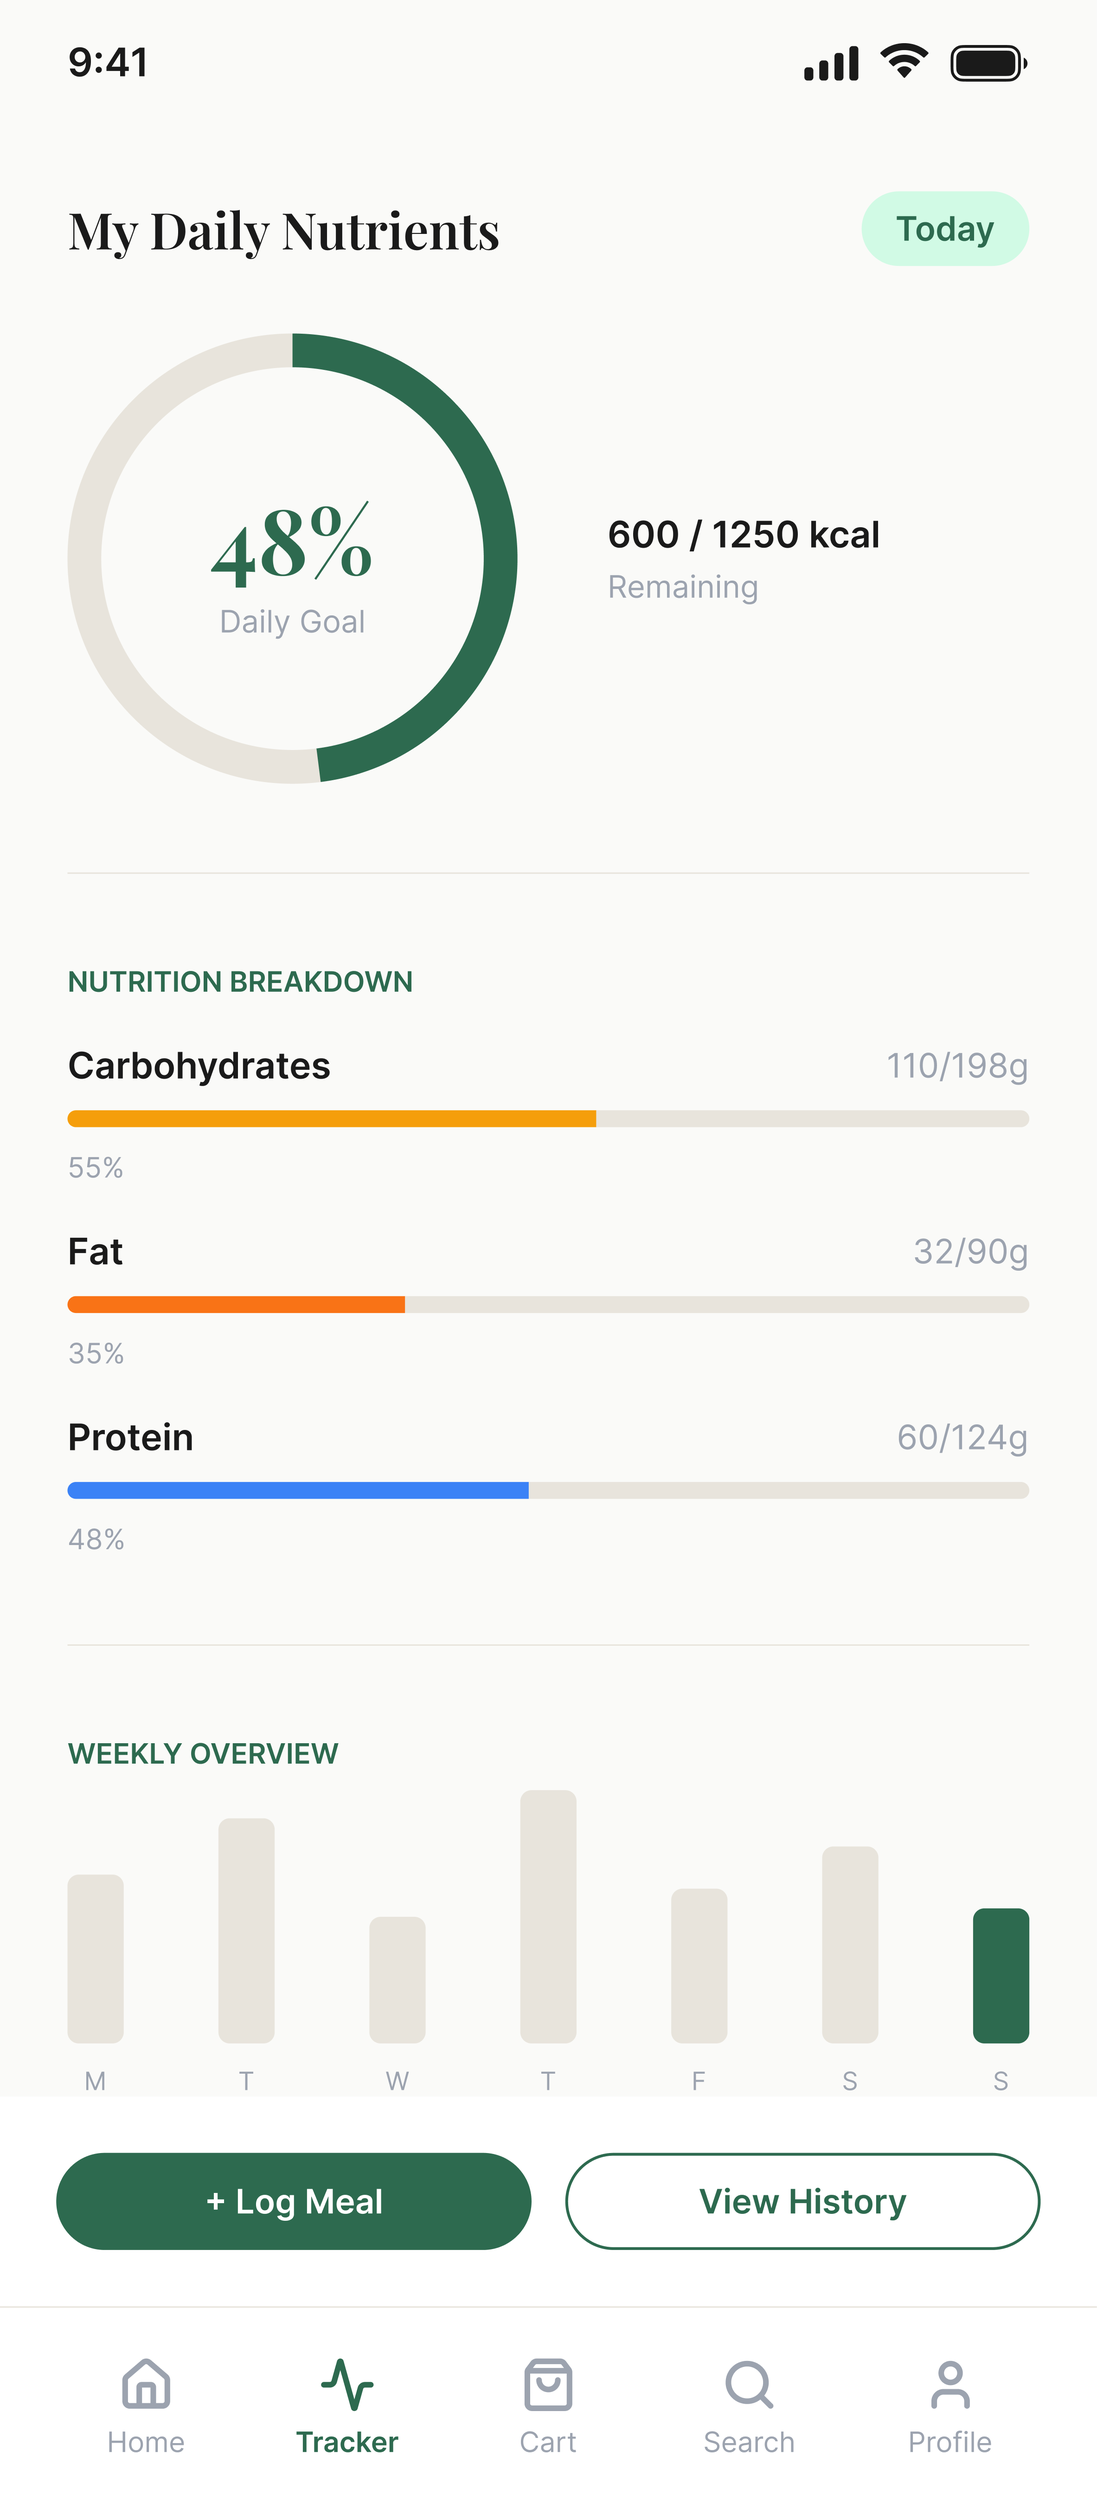
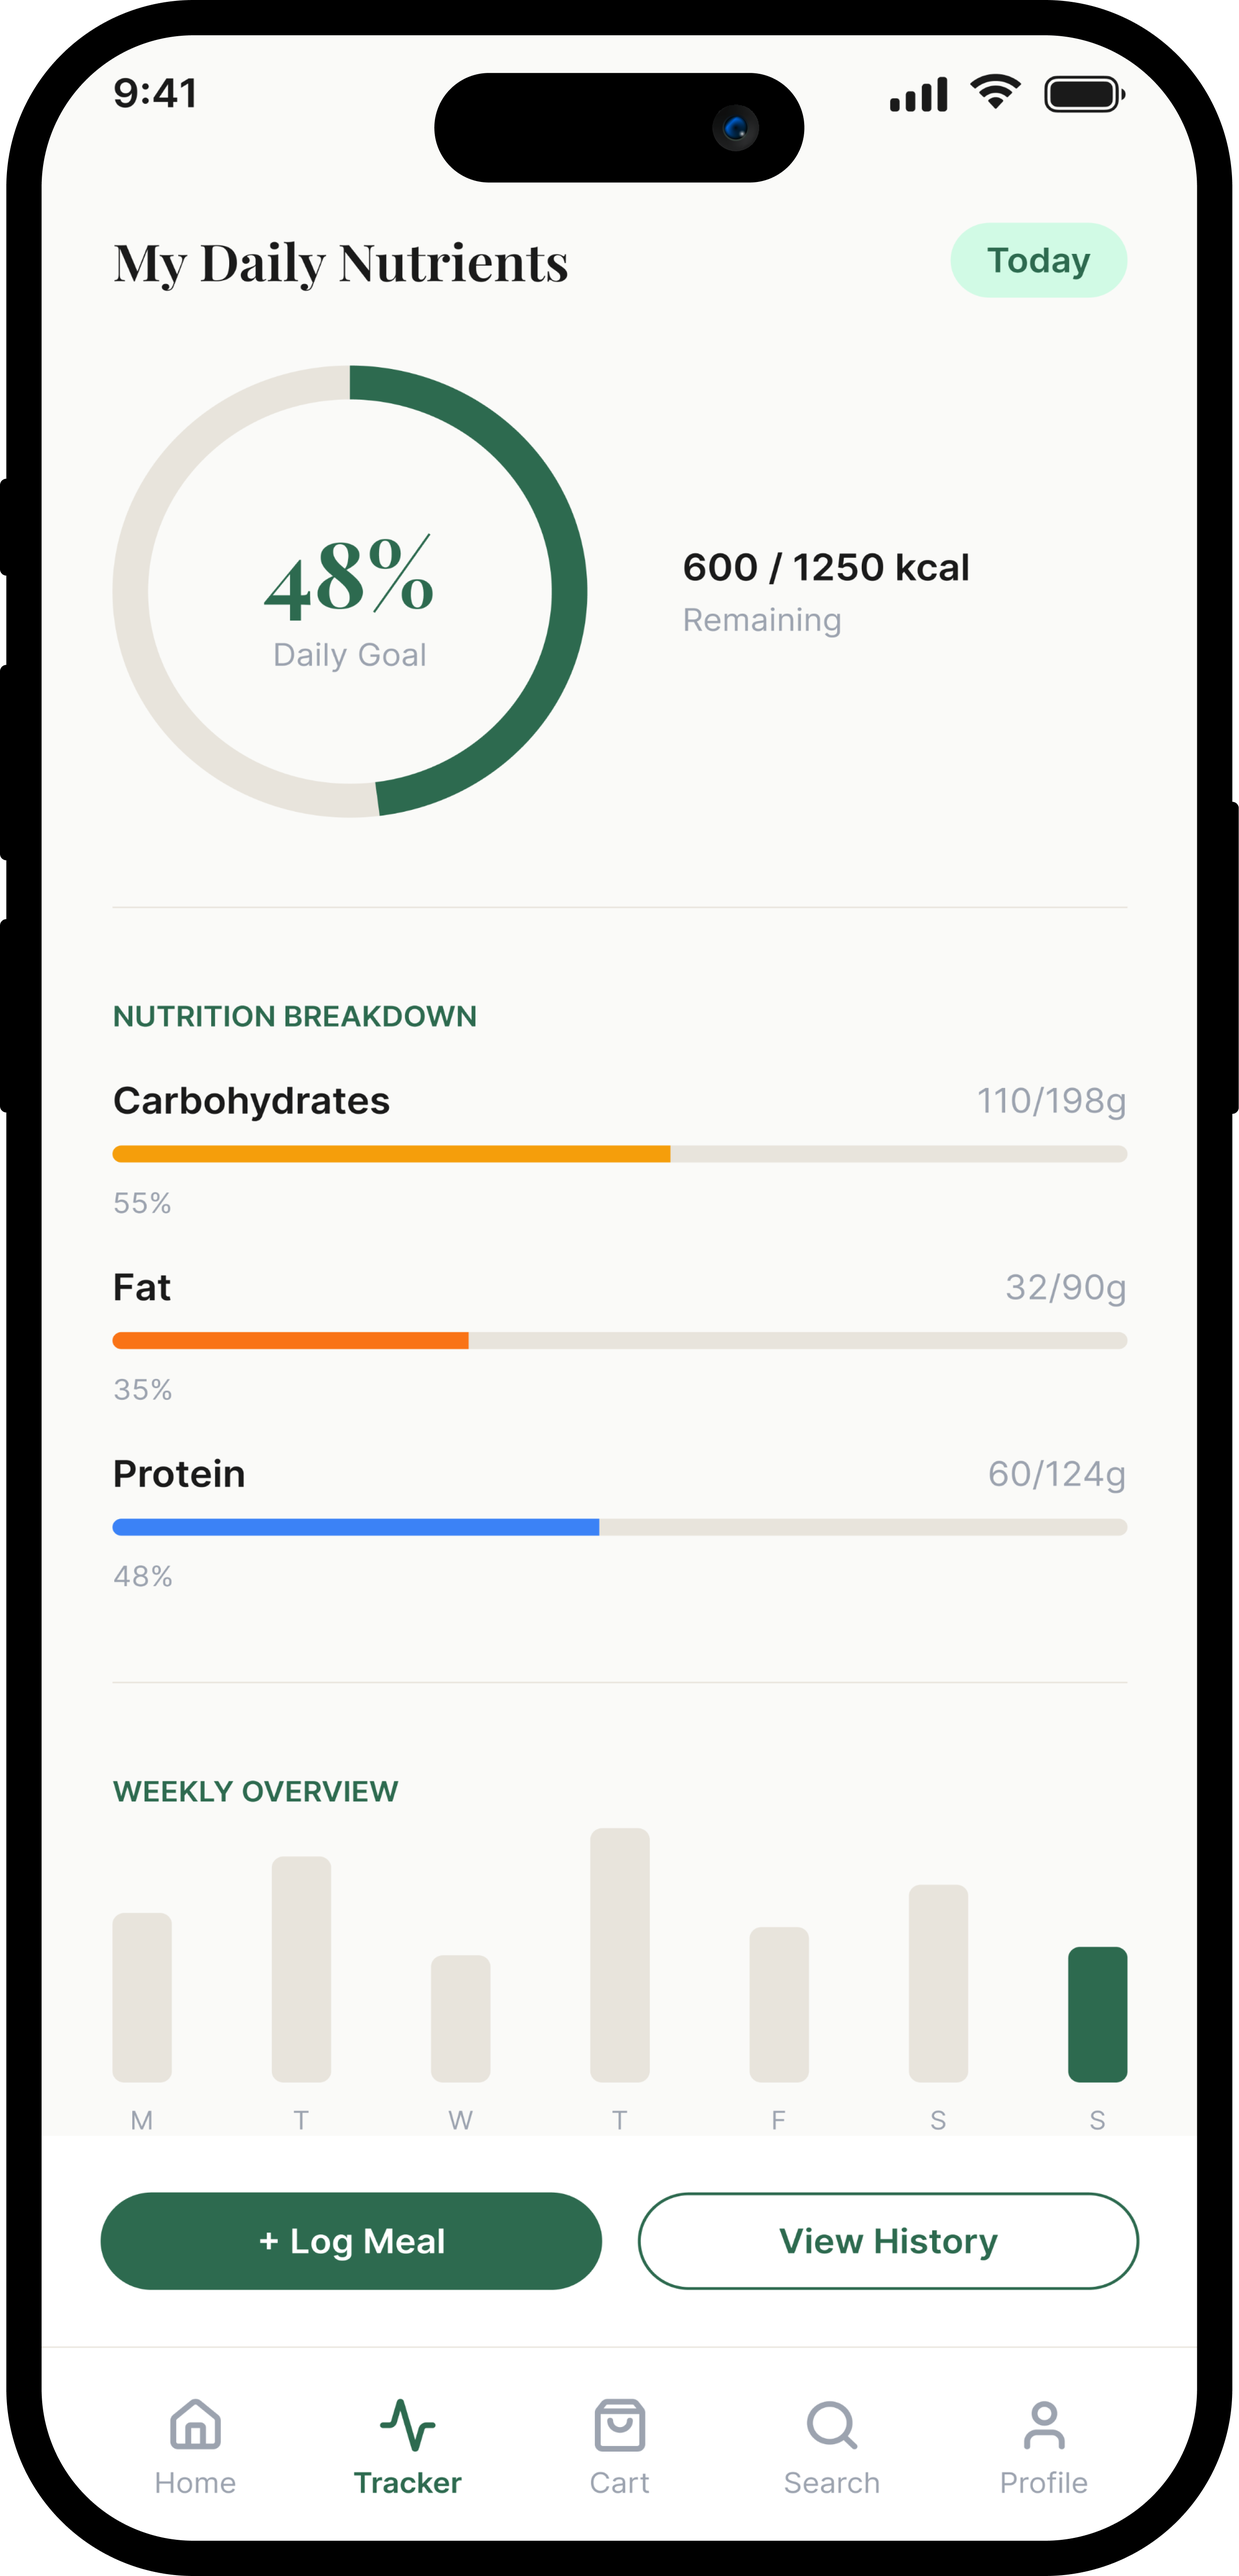
Replace NutriDash hero images with iPhone mockup versions

diff --git a/nutridash.html b/nutridash.html
@@ -11,6 +11,12 @@
     <link href="https://fonts.googleapis.com/css2?family=Inter:wght@400;500;600;700;800;900&display=swap" rel="stylesheet">
     <link rel="stylesheet" href="css/styles.css">
     <link rel="stylesheet" href="css/case-study.css">
+    <style>
+        .cs-hero-image-wrap .hero-device img {
+            border-radius: 0;
+            box-shadow: none;
+        }
+    </style>
 </head>
 <body>
     <!-- Nav -->
